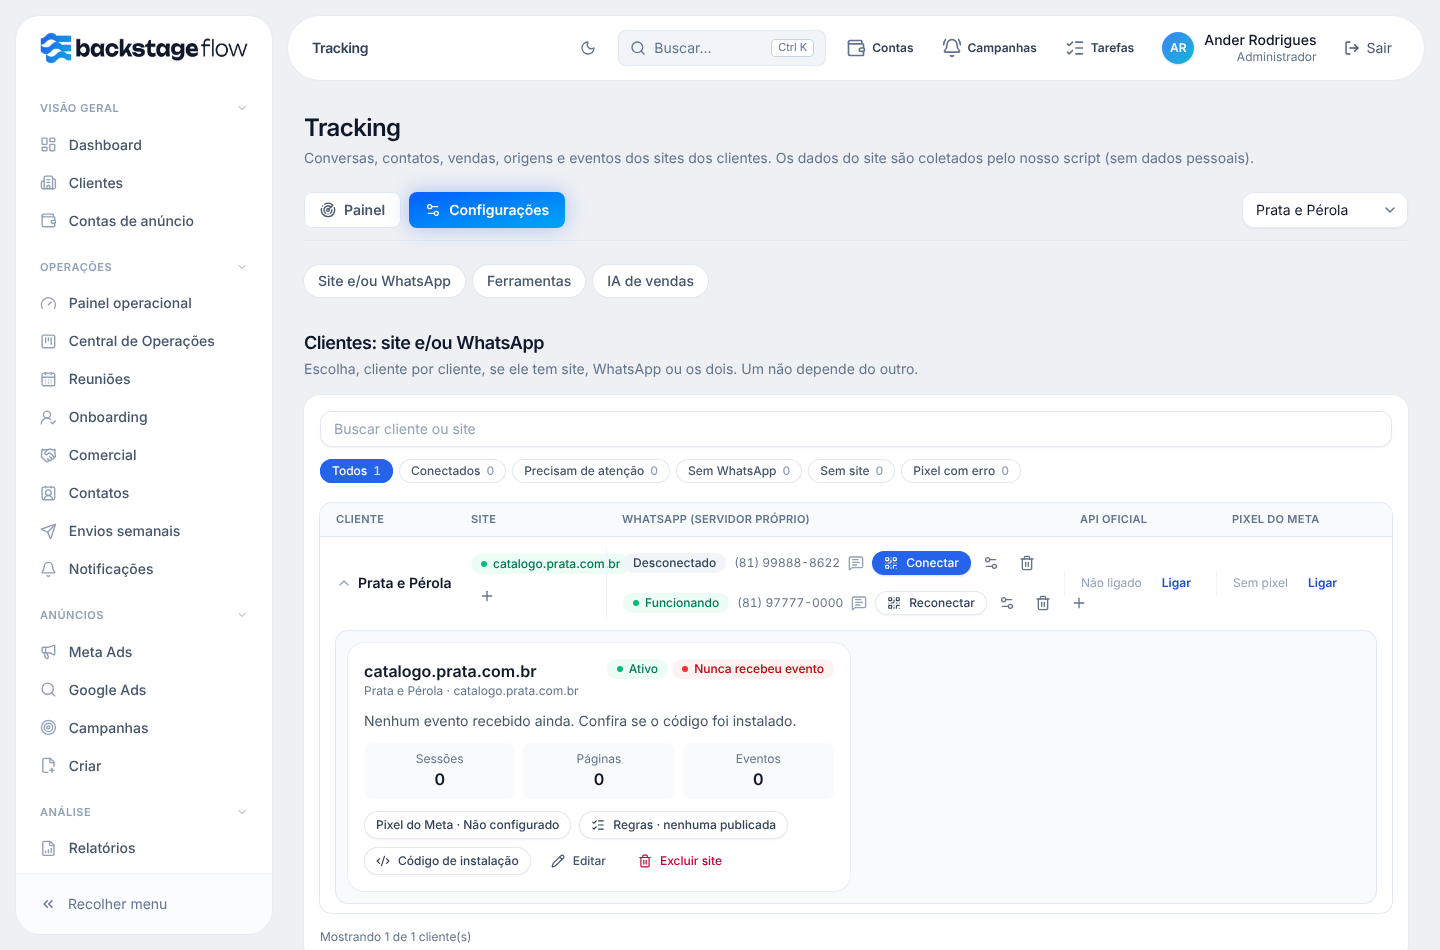
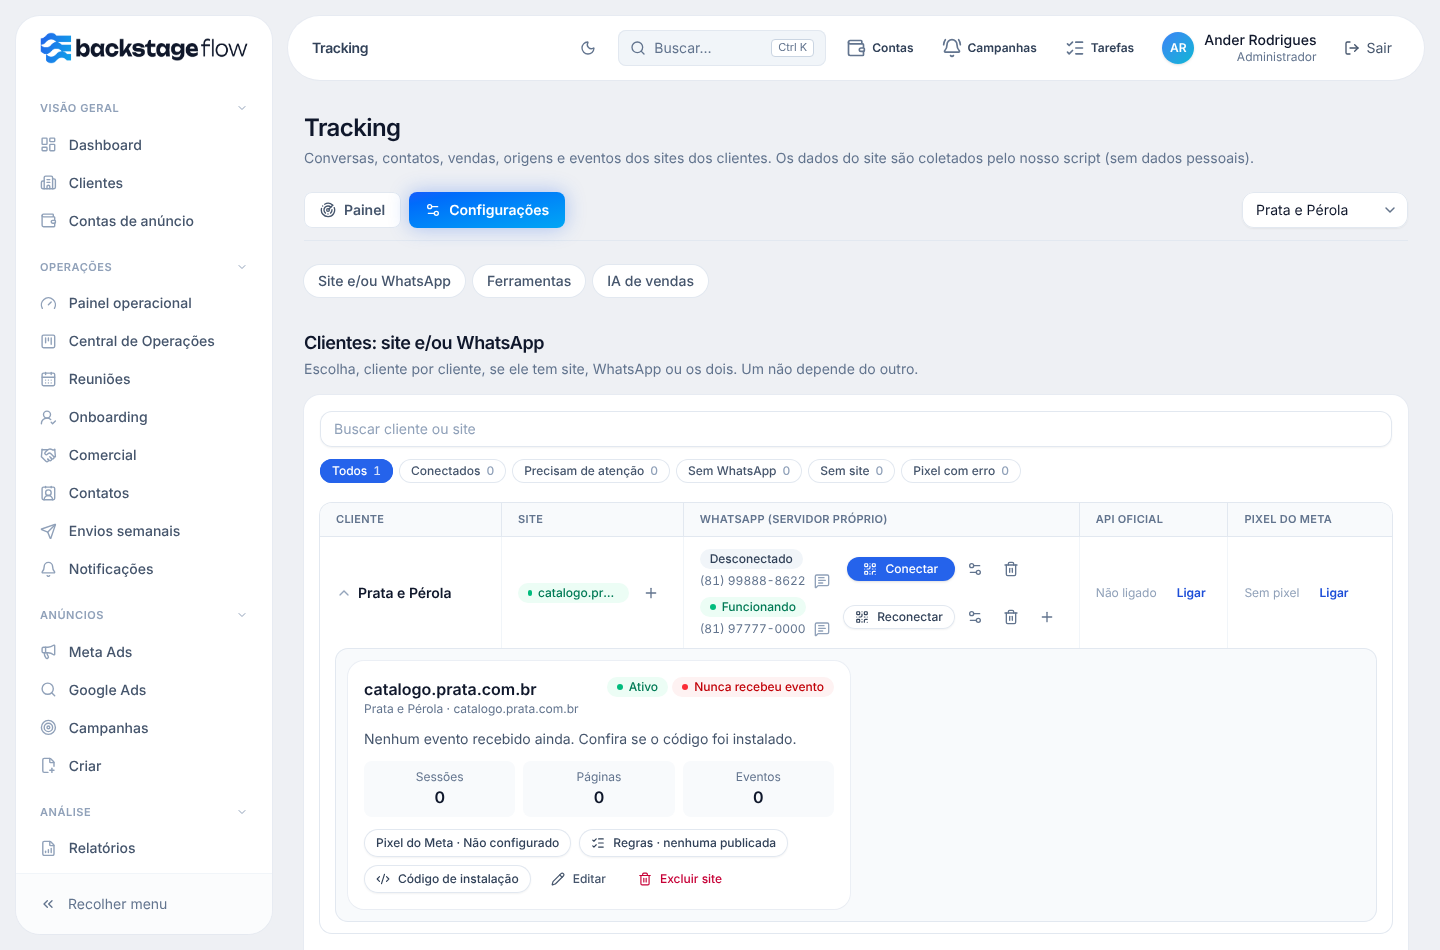
Lista de clientes do Tracking: grade uniforme no computador (colunas proporcionais, divisórias iguais, botões do WhatsApp alinhados)
Claude-Session: https://claude.ai/code/session_01A5ivfSd6VbkwRJFYwrhVNk

diff --git a/apps/web/src/features/tracking/ClientesSiteWhatsApp.tsx b/apps/web/src/features/tracking/ClientesSiteWhatsApp.tsx
@@ -225,44 +225,47 @@ export function ClienteSiteWhatsApp({ clients, containers, connectionOf, destina
 
       <div className="overflow-hidden rounded-xl ring-1 ring-slate-200">
         {/* Cabeçalho das colunas (só no computador) */}
-        <div className="hidden grid-cols-[minmax(6rem,0.7fr)_minmax(6rem,0.7fr)_minmax(26rem,2.6fr)_minmax(8.5rem,0.7fr)_minmax(10rem,0.8fr)] items-center gap-4 border-b border-slate-200 bg-slate-50 px-4 py-2 text-[11px] font-semibold uppercase tracking-wide text-slate-500 @[64rem]:grid" aria-hidden>
-          <span>Cliente</span><span>Site</span><span className="@[64rem]:pl-4">WhatsApp (servidor próprio)</span><span className="@[64rem]:pl-4">API oficial</span><span className="@[64rem]:pl-4">Pixel do Meta</span>
+        <div className="hidden grid-cols-[minmax(8rem,1fr)_minmax(9rem,1.1fr)_minmax(24rem,2.4fr)_minmax(7.5rem,0.9fr)_minmax(8rem,0.9fr)] items-stretch border-b border-slate-200 bg-slate-50 px-4 text-[11px] font-semibold uppercase tracking-wide text-slate-500 @[64rem]:grid" aria-hidden>
+          <span className="py-2 pr-4">Cliente</span>
+          <span className="border-l border-slate-200 px-4 py-2">Site</span>
+          <span className="border-l border-slate-200 px-4 py-2">WhatsApp (servidor próprio)</span>
+          <span className="border-l border-slate-200 px-4 py-2">API oficial</span>
+          <span className="border-l border-slate-200 py-2 pl-4">Pixel do Meta</span>
         </div>
         <ul className="divide-y divide-slate-100">
           {visiveis.map(({ cl, sites, servidores, oficial, estOficial }) => {
             const usoOficial = usoRecente(oficial.connection?.last_webhook_at ?? null, Date.now());
             const aberto = Boolean(renderDetail && sites.length > 0 && (abertos.has(cl.id) !== (filtradas.length === 1)));
             return (
-              <li key={cl.id} className="grid gap-x-4 gap-y-3 px-3 py-3 sm:px-4 @[64rem]:grid-cols-[minmax(6rem,0.7fr)_minmax(6rem,0.7fr)_minmax(26rem,2.6fr)_minmax(8.5rem,0.7fr)_minmax(10rem,0.8fr)] @[64rem]:items-center @[64rem]:py-2.5" data-testid="cli-site-whatsapp-row">
+              <li key={cl.id} className="grid gap-y-3 px-3 py-3 sm:px-4 @[64rem]:grid-cols-[minmax(8rem,1fr)_minmax(9rem,1.1fr)_minmax(24rem,2.4fr)_minmax(7.5rem,0.9fr)_minmax(8rem,0.9fr)] @[64rem]:items-stretch @[64rem]:gap-y-0 @[64rem]:py-0" data-testid="cli-site-whatsapp-row">
                 {/* Cliente: com site, o nome abre os detalhes dos sites logo abaixo da linha */}
                 {renderDetail && sites.length > 0 ? (
                   <button type="button" onClick={() => alternar(cl.id)} aria-expanded={aberto} data-testid="cli-abrir-detalhe"
                     aria-label={`${aberto ? "Fechar" : "Ver"} os sites de ${cl.name}`}
-                    className="flex min-w-0 items-center gap-1.5 text-left text-sm font-semibold text-slate-900 hover:text-brand-700">
+                    className="flex min-w-0 items-center gap-1.5 text-left text-sm font-semibold text-slate-900 hover:text-brand-700 @[64rem]:py-3 @[64rem]:pr-4">
                     <ChevronDown className={`size-4 shrink-0 text-slate-400 transition-transform ${aberto ? "rotate-180 text-brand-600" : "-rotate-90"}`} aria-hidden />
-                    <span className="truncate" title={cl.name}>{cl.name}</span>
+                    <span className="line-clamp-2 break-words" title={cl.name}>{cl.name}</span>
                   </button>
                 ) : (
-                  <p className="truncate text-sm font-semibold text-slate-900" title={cl.name}>{cl.name}</p>
+                  <p className="line-clamp-2 break-words text-sm font-semibold text-slate-900 @[64rem]:self-center @[64rem]:py-3 @[64rem]:pr-4" title={cl.name}>{cl.name}</p>
                 )}
 
-                {/* Site */}
-                <div className="flex min-w-0 flex-wrap items-center gap-1.5" data-testid="cli-site-coluna">
+                {/* Site: o primeiro site (o texto longo é cortado) e o "+" na mesma linha */}
+                <div className="flex min-w-0 flex-wrap items-center gap-1.5 @[64rem]:border-l @[64rem]:border-slate-100 @[64rem]:px-4 @[64rem]:py-3 @[64rem]:flex-nowrap" data-testid="cli-site-coluna">
                   <span className="w-20 shrink-0 text-[11px] font-semibold uppercase tracking-wide text-slate-400 @[64rem]:hidden">Site</span>
                   {sites.length === 0 && <span className="text-xs text-slate-400">sem site</span>}
-                  {sites.slice(0, 2).map((s) => (
-                    <Badge key={s.id} tone={s.status === "ativo" ? "success" : "neutral"} title={s.status === "ativo" ? undefined : "Site pausado"}>
-                      <span className="block max-w-[10rem] truncate">{s.allowed_domains[0] ?? s.name}</span>
+                  {sites.slice(0, 1).map((s) => (
+                    <Badge key={s.id} className="min-w-0 max-w-full" tone={s.status === "ativo" ? "success" : "neutral"} title={[s.allowed_domains.join(", ") || s.name, s.status === "ativo" ? "" : "Site pausado"].filter(Boolean).join(" · ")}>
+                      <span className="block min-w-0 truncate">{s.allowed_domains[0] ?? s.name}</span>
                     </Badge>
                   ))}
-                  {sites.length > 2 && <span className="text-xs text-slate-500">+{sites.length - 2}</span>}
-                  {sites.length === 1 && sites[0]!.allowed_domains.length > 1 && <span className="text-xs text-slate-500">+{sites[0]!.allowed_domains.length - 1} domínio(s)</span>}
+                  {sites.length > 1 && <span className="shrink-0 text-xs text-slate-500" title={sites.map((x) => x.allowed_domains[0] ?? x.name).join(", ")}>+{sites.length - 1}</span>}
                   {sites.some((s) => s.status !== "ativo") && <span className="text-xs text-slate-400 @[64rem]:hidden">pausado</span>}
                   <IconButton size="sm" label={`${sites.length ? "Adicionar outro site" : "Adicionar site"} de ${cl.name}`} icon={<Plus />} onClick={() => onAddSite(cl.id)} />
                 </div>
 
                 {/* WhatsApp do servidor próprio: um número por linha; o "+" adiciona outro número do mesmo cliente */}
-                <div className="flex min-w-0 flex-col gap-2 @[64rem]:border-l @[64rem]:border-slate-100 @[64rem]:pl-4" data-testid="cli-whatsapp-coluna">
+                <div className="flex min-w-0 flex-col justify-center gap-2 @[64rem]:border-l @[64rem]:border-slate-100 @[64rem]:px-4 @[64rem]:py-3" data-testid="cli-whatsapp-coluna">
                   {servidores.length === 0 && (
                     <div className="flex min-w-0 flex-wrap items-center gap-x-2 gap-y-2">
                       <span className="w-20 shrink-0 text-[11px] font-semibold uppercase tracking-wide text-slate-400 @[64rem]:hidden">WhatsApp</span>
@@ -276,16 +279,22 @@ export function ClienteSiteWhatsApp({ clients, containers, connectionOf, destina
                     const guardando = Boolean(cn.store_messages && cn.store_ack_at);
                     const de = i === 0 ? cl.name : `${cl.name} ${formatTelefone(cn.display_phone) || `(número ${i + 1})`}`;
                     return (
-                      <div key={cn.id} className="flex min-w-0 flex-wrap items-center gap-x-2 gap-y-2 @[64rem]:flex-nowrap" data-testid="cli-whatsapp-numero">
-                        <span className="w-20 shrink-0 text-[11px] font-semibold uppercase tracking-wide text-slate-400 @[64rem]:hidden">{i === 0 ? "WhatsApp" : ""}</span>
-                        <Badge tone={e.tone} title={e.detalhe}><span className="whitespace-nowrap">{e.label}</span></Badge>
-                        {cn.display_phone && <span className="whitespace-nowrap text-xs tabular-nums text-slate-500">{formatTelefone(cn.display_phone)}</span>}
-                        {guardando && <span title="Guardando as conversas deste WhatsApp" className="text-slate-400"><MessageSquareText className="size-4" aria-label="Guardando as conversas" role="img" /></span>}
-                        {guardando && cn.ai_suggest && <span title="IA sugerindo vendas" className="text-brand-600"><Sparkles className="size-4" aria-label="IA sugerindo vendas" role="img" /></span>}
-                        {uso.level === "atencao" && <Badge tone="warning" data-testid="wa-sem-uso">Sem uso desde {formatDataCurta(cn.last_webhook_at!)}</Badge>}
-                        <span className="flex items-center gap-1" data-testid="wa-detalhe-servidor">
+                      <div key={cn.id} className="flex min-w-0 flex-wrap items-center gap-x-2 gap-y-2 @[64rem]:flex-nowrap @[64rem]:justify-between" data-testid="cli-whatsapp-numero">
+                        <span className="flex min-w-0 flex-col items-start gap-1">
+                          <span className="flex min-w-0 flex-wrap items-center gap-x-2 gap-y-1">
+                            <span className="w-20 shrink-0 text-[11px] font-semibold uppercase tracking-wide text-slate-400 @[64rem]:hidden">{i === 0 ? "WhatsApp" : ""}</span>
+                            <Badge tone={e.tone} title={e.detalhe}><span className="whitespace-nowrap">{e.label}</span></Badge>
+                            {uso.level === "atencao" && <Badge tone="warning" data-testid="wa-sem-uso">Sem uso desde {formatDataCurta(cn.last_webhook_at!)}</Badge>}
+                          </span>
+                          <span className="flex min-w-0 flex-nowrap items-center gap-x-2">
+                            {cn.display_phone && <span className="whitespace-nowrap text-xs tabular-nums text-slate-500">{formatTelefone(cn.display_phone)}</span>}
+                            {guardando && <span title="Guardando as conversas deste WhatsApp" className="text-slate-400"><MessageSquareText className="size-4" aria-label="Guardando as conversas" role="img" /></span>}
+                            {guardando && cn.ai_suggest && <span title="IA sugerindo vendas" className="text-brand-600"><Sparkles className="size-4" aria-label="IA sugerindo vendas" role="img" /></span>}
+                          </span>
+                        </span>
+                        <span className="flex shrink-0 items-center gap-1" data-testid="wa-detalhe-servidor">
                           {podeGerenciar && (
-                            <Button className="px-3 py-1 text-xs" variant={e.estado === "conectado" ? "secondary" : "primary"} onClick={() => setQrDe({ conexaoId: cn.id, nome: cl.name })} aria-label={`Conectar o WhatsApp de ${de}`}>
+                            <Button className="min-w-[6.75rem] justify-center px-3 py-1 text-xs" variant={e.estado === "conectado" ? "secondary" : "primary"} onClick={() => setQrDe({ conexaoId: cn.id, nome: cl.name })} aria-label={`Conectar o WhatsApp de ${de}`}>
                               <QrCode className="size-3.5" aria-hidden /> {e.estado === "conectado" ? "Reconectar" : "Conectar"}
                             </Button>
                           )}
@@ -293,6 +302,7 @@ export function ClienteSiteWhatsApp({ clients, containers, connectionOf, destina
                           {podeGerenciar && (
                             <ExcluirWhatsApp connectionId={cn.id} instanceName={cn.instance_name} clientName={de} onMessage={(m) => setAvisos((a) => ({ ...a, [cl.id]: m }))} />
                           )}
+                          {podeGerenciar && i < servidores.length - 1 && <span aria-hidden className="hidden size-8 shrink-0 @[64rem]:block" />}
                           {podeGerenciar && i === servidores.length - 1 && (
                             <IconButton size="sm" label={`Adicionar outro número de WhatsApp de ${cl.name}`} icon={<Plus />} onClick={() => void novoNumero(cl.id)} data-testid="wa-novo-numero" />
                           )}
@@ -303,7 +313,7 @@ export function ClienteSiteWhatsApp({ clients, containers, connectionOf, destina
                 </div>
 
                 {/* API oficial */}
-                <div className="flex min-w-0 flex-wrap items-center gap-x-2 gap-y-2 @[64rem]:flex-nowrap @[64rem]:border-l @[64rem]:border-slate-100 @[64rem]:pl-4">
+                <div className="flex min-w-0 flex-wrap items-center gap-x-2 gap-y-2 @[64rem]:flex-nowrap @[64rem]:border-l @[64rem]:border-slate-100 @[64rem]:px-4 @[64rem]:py-3">
                   <span className="w-20 shrink-0 text-[11px] font-semibold uppercase tracking-wide text-slate-400 @[64rem]:hidden">API oficial</span>
                   {estOficial.estado === "nenhum" ? <span className="whitespace-nowrap text-xs text-slate-400">Não ligado</span> : <Badge tone={estOficial.tone}><span className="whitespace-nowrap">{estOficial.label}</span></Badge>}
                   {usoOficial.level === "atencao" && <Badge tone="warning" data-testid="wa-sem-uso">Sem uso desde {formatDataCurta(oficial.connection!.last_webhook_at!)}</Badge>}
@@ -318,7 +328,7 @@ export function ClienteSiteWhatsApp({ clients, containers, connectionOf, destina
                   const px = pixelDe(cl.id);
                   const pronto = Boolean(px.destination?.enabled && px.destination.has_token);
                   return (
-                    <div className="flex min-w-0 flex-wrap items-center gap-x-2 gap-y-2 @[64rem]:flex-nowrap @[64rem]:border-l @[64rem]:border-slate-100 @[64rem]:pl-4" data-testid="cli-pixel-coluna">
+                    <div className="flex min-w-0 flex-wrap items-center gap-x-2 gap-y-2 @[64rem]:flex-nowrap @[64rem]:border-l @[64rem]:border-slate-100 @[64rem]:px-4 @[64rem]:py-3" data-testid="cli-pixel-coluna">
                       <span className="w-20 shrink-0 text-[11px] font-semibold uppercase tracking-wide text-slate-400 @[64rem]:hidden">Pixel</span>
                       {!px.destination ? <span className="whitespace-nowrap text-xs text-slate-400">Sem pixel</span>
                         : pronto && pixelComErro(px.destination) ? <Badge tone="danger" title={px.destination.last_error_message ?? "O último envio ao Meta falhou"}><span className="whitespace-nowrap">Com erro no envio</span></Badge>
@@ -333,11 +343,11 @@ export function ClienteSiteWhatsApp({ clients, containers, connectionOf, destina
                 })()}
 
                 {aberto && (
-                  <div className="@[64rem]:col-span-5 rounded-xl bg-slate-50 p-3 ring-1 ring-slate-200" data-testid="cliente-detalhe">{renderDetail!(cl.id)}</div>
+                  <div className="@[64rem]:col-span-5 @[64rem]:mb-3 rounded-xl bg-slate-50 p-3 ring-1 ring-slate-200" data-testid="cliente-detalhe">{renderDetail!(cl.id)}</div>
                 )}
 
                 {avisos[cl.id] && (
-                  <div className="@[64rem]:col-span-5"><Alert tone={avisos[cl.id]!.tone}>{avisos[cl.id]!.text}</Alert></div>
+                  <div className="@[64rem]:col-span-5 @[64rem]:mb-3"><Alert tone={avisos[cl.id]!.tone}>{avisos[cl.id]!.text}</Alert></div>
                 )}
               </li>
             );

diff --git a/apps/web/src/components/ui/badge.tsx b/apps/web/src/components/ui/badge.tsx
@@ -12,10 +12,10 @@ const tones: Record<Tone, { box: string; dot: string | null }> = {
 };
 
 /** Etiqueta: as de estado (verde, âmbar, vermelho) levam um pontinho de cor, como o StatusBadge. */
-export function Badge({ tone = "neutral", children, ...rest }: { tone?: Tone; children: ReactNode } & HTMLAttributes<HTMLSpanElement>) {
+export function Badge({ tone = "neutral", children, className, ...rest }: { tone?: Tone; children: ReactNode } & HTMLAttributes<HTMLSpanElement>) {
   const t = tones[tone];
   return (
-    <span {...rest} className={cn("inline-flex items-center gap-1.5 rounded-full px-2.5 py-0.5 text-xs font-medium", t.box)}>
+    <span {...rest} className={cn("inline-flex items-center gap-1.5 rounded-full px-2.5 py-0.5 text-xs font-medium", t.box, className)}>
       {t.dot && <span className={cn("size-1.5 rounded-full", t.dot)} aria-hidden />}
       {children}
     </span>

diff --git a/docs/etapa-34-tracking/T5.40-VARIOS-NUMEROS-DE-WHATSAPP.md b/docs/etapa-34-tracking/T5.40-VARIOS-NUMEROS-DE-WHATSAPP.md
@@ -38,3 +38,13 @@ Migration `20261125120000_wa_varios_numeros_por_cliente.sql` (aplicada). **Sem t
 - **Correção:** migration `20261125130000_wa_health_since_leitura.sql` (aplicada): `grant select (health_since)` para quem está logado. É só uma data.
 - **Proteção:** teste `packages/shared/src/tracking/colunasConexoes.test.ts` falha se alguém pedir uma coluna dessa tabela no site sem a permissão correspondente.
 - O teste de navegador não pegou porque o servidor simulado não tem as permissões do banco real.
+
+## 26/11/2026 — Lista de clientes (Configurações) com grade uniforme no computador
+Pedido do Ander: organizar a distribuição das colunas.
+- **Colunas proporcionais** (Cliente · Site · WhatsApp · API oficial · Pixel), com a mesma divisória vertical e o mesmo recuo em todas as linhas e no cabeçalho.
+- **Cliente:** o nome longo quebra em até 2 linhas (antes era cortado).
+- **Site:** o primeiro site (texto longo cortado com "…", completo no balão) e "+N" quando há mais de um; o "+" de adicionar fica na mesma linha.
+- **WhatsApp:** cada número em duas linhas à esquerda (situação; telefone e ícones) e os botões à direita, **alinhados em coluna** mesmo com mais de um número (botão de largura fixa; o "+" tem o lugar reservado).
+- Só visual; nada de banco. Teste `excluir-site.mjs` ajustado (a coluna mostra o 1º site e "+N").
+
+![Grade uniforme](imagens/tracking-lista-clientes-grade-uniforme.png)
